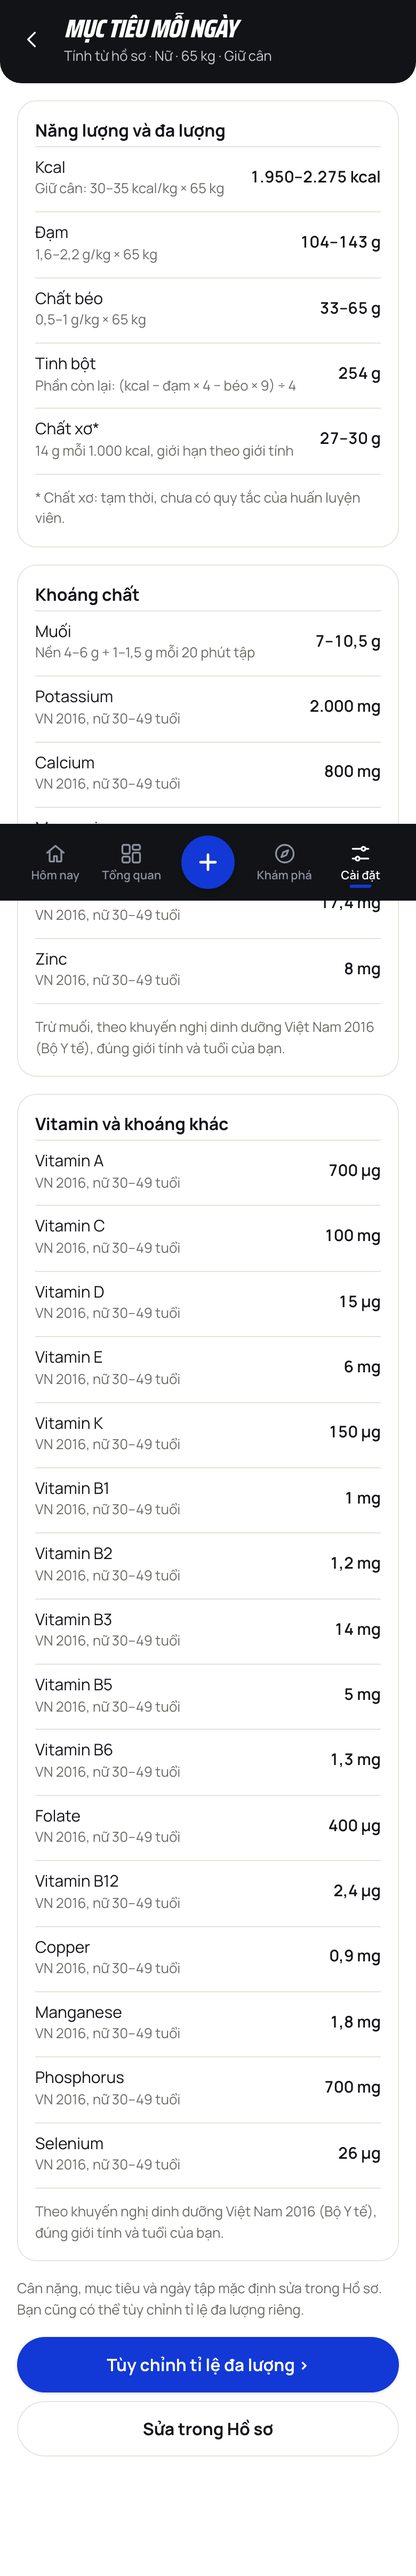
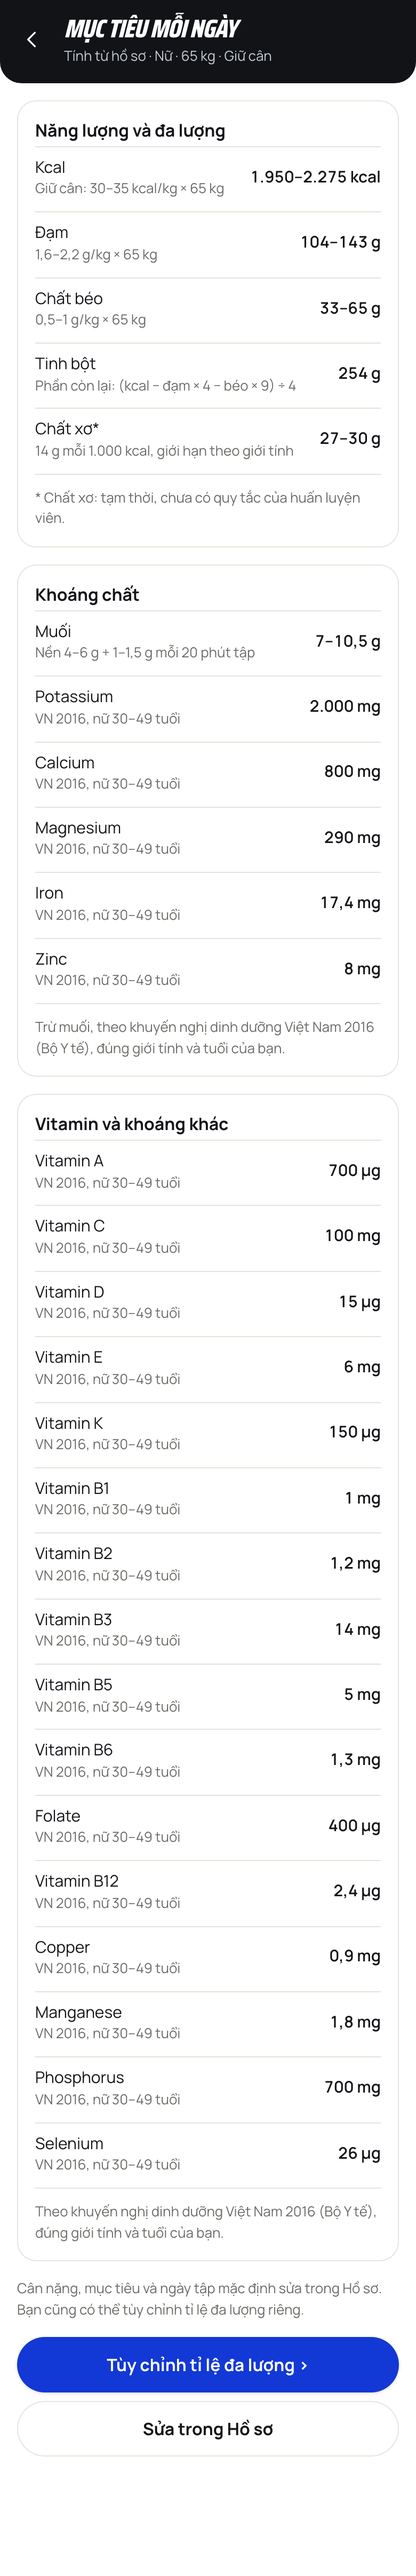
cc-67: period iron keeps the coach rule (28 mg), switch restored, vectors with isPeriod, targets screenshots without the tab bar

Changed region(s): [[0.0, 0.3107, 1.0, 0.3728]]

diff --git a/apps/web/lib/targets.ts b/apps/web/lib/targets.ts
@@ -1,5 +1,8 @@
 import { rdaTargets } from "./rda";
 
+/** Iron for a woman in or near the period: the coach rule (mg a day) */
+const PERIOD_IRON_MG = 28;
+
 /** The age the micro targets use until the profile says one (the 20–29 band) */
 const DEFAULT_AGE = 25;
 
@@ -66,6 +69,8 @@ export interface UserProfileForTargets {
   trainingMinutes?: number;
   /** Age in years, for the recommended amounts of the 22 micros (lib/rda); 25 when not known */
   age?: number;
+  /** Women only: in or near the period. Iron is the coach's 28 mg then (the one micro the period changes) */
+  isPeriod?: boolean;
   macroMode?: MacroTargetMode;
   macroRatios?: MacroRatios;
   macroFixed?: MacroFixedGrams;
@@ -276,6 +281,8 @@ export function calculateTargets(profile: UserProfileForTargets): CompleteTarget
     // cc-67: 21 of the 22 vitamins and minerals are the recommended amounts for this sex and age (lib/rda), whatever the weight or training
     ...rdaTargets(profile.sex, profile.age ?? DEFAULT_AGE),
     sodium: calculateSodiumTarget(trainingMinutes),
+    // TODO(cc-67): iron in the period stays the coach's 28 mg, not VN 2016's amount for the age; Hao decides (OPEN_QUESTIONS, cc-67 period iron)
+    ...(profile.sex === "female" && profile.isPeriod ? { iron: { min: PERIOD_IRON_MG, max: PERIOD_IRON_MG } } : {}),
     calories,
     protein,
     fat,

diff --git a/apps/web/components/settings/__tests__/target-rows.test.ts b/apps/web/components/settings/__tests__/target-rows.test.ts
@@ -76,12 +76,13 @@ describe("targetSections", () => {
     expect(row(deepCut, "Năng lượng và đa lượng", "Kcal")).toMatchObject({ value: "1.300–1.625 kcal" });
   });
 
-  it("gives a woman her own amounts, and the period switch is gone", () => {
+  it("gives a woman her own amounts, and iron 28 mg in the period", () => {
     const woman = { ...SAMPLE, sex: "female" as const };
     expect(row(woman, "Khoáng chất", "Iron")).toMatchObject({ value: "17,4 mg", detail: "VN 2016, nữ 20–29 tuổi" });
     expect(row(woman, "Khoáng chất", "Zinc")).toMatchObject({ value: "8 mg" });
     expect(row(woman, "Khoáng chất", "Potassium")).toMatchObject({ value: "2.000 mg" });
-    expect(row({ ...woman, periodMode: true }, "Khoáng chất", "Iron")).toMatchObject({ value: "17,4 mg" });
+    // In the period iron is the coach's 28 mg (TODO cc-67: Hao decides), the other rows stay VN 2016
+    expect(row({ ...woman, periodMode: true }, "Khoáng chất", "Iron")).toMatchObject({ value: "28 mg", detail: "Gần/đang trong kỳ: quy tắc của huấn luyện viên" });
   });
 
   it("lists the 16 other VN 2016 amounts with their units", () => {

diff --git a/apps/web/components/settings/profile-cards.tsx b/apps/web/components/settings/profile-cards.tsx
@@ -122,6 +122,21 @@ export function BodyCard({ alignGroup }: { alignGroup?: string }) {
           />
         </div>
       </RowGroup>
+      {profile.sex === "female" && (
+        <RowGroup>
+          <div className="flex min-h-[52px] items-center gap-3 border-t border-divider py-1">
+            <div className="flex min-w-0 flex-1 flex-col gap-0.5">
+              <span className="text-[15px]">Gần/đang trong kỳ</span>
+              <span className="text-[13px] leading-tight text-secondary">Chỉ với nữ · Iron lên 28 mg/ngày</span>
+            </div>
+            <Switch
+              checked={profile.periodMode}
+              onCheckedChange={(periodMode) => updateProfile({ periodMode })}
+              aria-label="Gần/đang trong kỳ"
+            />
+          </div>
+        </RowGroup>
+      )}
       <BirthYearField />
       <RowGroup>
         <Row label="Cân nặng" value={`${formatNumber(profile.weightKg)} kg`} href="/settings/profile/weight" />

diff --git a/apps/web/lib/profile.ts b/apps/web/lib/profile.ts
@@ -23,7 +23,7 @@ export interface Profile extends CoachingState {
   birthYear: number;
   weightKg: number;
   goal: GoalType;
-  /** Kept for the account (the server has near_period); since cc-67 the iron target is the VN 2016 amount for sex and age, so nothing reads it. Always false for men (see normaliseProfile). */
+  /** Women only: iron target 28 mg (the coach rule) instead of the VN 2016 amount for sex and age. Always false for men (see normaliseProfile). */
   periodMode: boolean;
   trainingMinutesDefault: number;
   /** Optional name shown on Cài đặt. "" means not set. */
@@ -155,6 +155,7 @@ export function targetsFor(profile: Profile, trainingMinutes = profile.trainingM
     weightKg: profile.weightKg,
     goal: profile.goal,
     trainingMinutes,
+    isPeriod: profile.sex === "female" && profile.periodMode,
     age: ageOf(profile.birthYear),
     macroMode: profile.macroMode,
     macroRatios: profile.macroRatios,

diff --git a/apps/web/lib/__tests__/rda.test.ts b/apps/web/lib/__tests__/rda.test.ts
@@ -139,7 +139,7 @@ describe("the table for review", () => {
         `| Nữ | ${(r.female ?? r.male).map(cell).join(" | ")} |`,
         "",
       ]),
-      `Giữ nguyên: năng lượng, đạm, béo, tinh bột, chất xơ (công thức của huấn luyện viên). Natri giữ nguyên công thức theo phút tập. Bỏ: kali theo cân nặng, canxi 1.200–1.500, magie = 50% canxi, sắt theo kỳ kinh.`,
+      `Giữ nguyên: năng lượng, đạm, béo, tinh bột, chất xơ (công thức của huấn luyện viên). Natri giữ nguyên công thức theo phút tập, sắt khi nữ đang trong kỳ giữ 28 mg của huấn luyện viên. Bỏ: kali theo cân nặng, canxi 1.200–1.500, magie = 50% canxi.`,
     ];
     const file = path.resolve(__dirname, "../../../../docs/rda-vn2016-targets-2026-10-19.md");
     mkdirSync(path.dirname(file), { recursive: true });

diff --git a/apps/web/lib/__tests__/vectors-gen.test.ts b/apps/web/lib/__tests__/vectors-gen.test.ts
@@ -27,7 +27,8 @@ describe("Export shared test vectors for Go API", () => {
           for (const trainingMinutes of [0, 60]) {
             // cc-67: the 22 micros follow sex and age (lib/rda): the ages go round the VN 2016 bands
             const age = AGES[targetCases.length % AGES.length];
-            const profile: UserProfileForTargets = { sex, goal, weightKg, trainingMinutes, age };
+            const isPeriod = sex === "female";
+            const profile: UserProfileForTargets = { sex, goal, weightKg, trainingMinutes, isPeriod, age };
             const output = calculateTargets(profile);
             targetCases.push({ input: profile, output });
           }
@@ -56,6 +57,7 @@ describe("Export shared test vectors for Go API", () => {
       weightKg: 70,
       goal: "maintain",
       trainingMinutes: 60,
+      isPeriod: false,
       age: 25,
     });
 

diff --git a/apps/web/components/settings/target-rows.ts b/apps/web/components/settings/target-rows.ts
@@ -89,7 +89,8 @@ export function targetSections(profile: Profile): TargetSection[] {
         },
         ...["potassium", "calcium", "magnesium", "iron", "zinc"].map((key) => ({
           label: nutrientName(key),
-          detail: who,
+          // Iron in the period is the coach's 28 mg, not a recommended amount (TODO cc-67: Hao decides)
+          detail: key === "iron" && profile.sex === "female" && profile.periodMode ? "Gần/đang trong kỳ: quy tắc của huấn luyện viên" : who,
           value: `${formatAmount(t[key]?.min ?? 0, "mg")} mg`,
         })),
       ],

diff --git a/apps/web/lib/__tests__/profile.test.ts b/apps/web/lib/__tests__/profile.test.ts
@@ -49,8 +49,8 @@ describe("sample profile", () => {
     expect(t.potassium).toEqual({ min: 2500, max: 2500 });
   });
 
-  it("gives a woman iron 17,4 mg whatever the period setting says", () => {
-    expect(targetsFor({ ...WOMAN, periodMode: true }).iron).toEqual({ min: 17.4, max: 17.4 });
+  it("gives a woman iron 28 mg in the period (the coach rule), 17,4 mg otherwise", () => {
+    expect(targetsFor({ ...WOMAN, periodMode: true }).iron).toEqual({ min: 28, max: 28 });
     expect(targetsFor({ ...WOMAN, periodMode: false }).iron).toEqual({ min: 17.4, max: 17.4 });
   });
 

diff --git a/apps/web/components/onboarding/setup-form.tsx b/apps/web/components/onboarding/setup-form.tsx
@@ -288,6 +288,12 @@ export function SetupForm({ step }: { step: SetupStep }) {
               />
             </FormRow>
             )}
+
+            {draft.sex === "female" && (
+              <Card className="text-[13px] leading-normal text-secondary">
+                Với nữ, bạn có thể bật “Gần/đang trong kỳ” trên trang Hồ sơ để tăng mục tiêu Iron lên 28 mg/ngày.
+              </Card>
+            )}
           </section>
 
           {/* Goal: options and daily targets from lib/targets.ts */}

diff --git a/apps/web/tests/probes/cc08.py b/apps/web/tests/probes/cc08.py
@@ -1,5 +1,5 @@
 """cc-08: profile and targets from the profile. Weight 65 -> 70 moves Today's kcal target and not the micros (cc-67: they are
-the VN 2016 amounts for sex and age), a woman's iron is 17,4 mg and there is no period switch, reload keeps it, an invalid
+the VN 2016 amounts for sex and age), a woman's iron is 17,4 mg, or the coach's 28 mg with the period switch on, reload keeps it, an invalid
 weight shows the setup error.
 Run with: ALIGN_BASE_URL=http://localhost:3101 npm run probe -- tests/probes/cc08.py
 """
@@ -58,7 +58,7 @@ def run_phone(browser):
     visible(pg, 'a[href="/settings/profile/weight"]').wait_for(state="visible")
     active_sex = pg.locator('[aria-labelledby="profile-sex-label"] button[aria-pressed="true"] >> visible=true').first
     check(active_sex.inner_text().strip() == "Nam", "390 profile: sex chip shows Nam")
-    check(pg.get_by_role("switch", name="Gần/đang trong kỳ").count() == 0, "390 profile: no period switch")
+    check(pg.get_by_role("switch", name="Gần/đang trong kỳ").count() == 0, "390 profile: period switch hidden for Nam")
 
     # 2. weight page: opens from the row, shows the saved weight with one decimal
     visible(pg, 'a[href="/settings/profile/weight"]').click()
@@ -97,17 +97,27 @@ def run_phone(browser):
     visible(pg, 'a[href="/settings/profile/weight"]').wait_for(state="visible")
     pg.locator('[aria-labelledby="profile-sex-label"] button:has-text("Nữ") >> visible=true').first.click()
     pg.wait_for_timeout(200)
-    check(pg.get_by_role("switch", name="Gần/đang trong kỳ").count() == 0, "390 profile: no period switch for Nữ either")
+    switch = pg.get_by_role("switch", name="Gần/đang trong kỳ")
+    check(switch.count() == 1, "390 profile: period switch shows after choosing Nữ")
+    pg.goto(BASE + "/micros", wait_until="networkidle")
+    pg.wait_for_timeout(600)
+    check("/ 17,4 mg" in body(pg), "390 micros: iron target reads 17,4 mg for a woman of 23 (period off)")
+    pg.goto(BASE + "/settings/profile", wait_until="networkidle")
+    visible(pg, 'a[href="/settings/profile/weight"]').wait_for(state="visible")
+    switch = pg.get_by_role("switch", name="Gần/đang trong kỳ")
+    switch.click()
+    pg.wait_for_timeout(200)
+    check(switch.get_attribute("aria-checked") == "true", "390 profile: period switch is on")
     pg.screenshot(path=os.path.join(SHOTS, "cc08-profile-female-390.png"), animations="disabled")
 
     pg.goto(BASE + "/micros", wait_until="networkidle")
     pg.wait_for_timeout(600)
-    check("/ 17,4 mg" in body(pg), "390 micros: iron target reads 17,4 mg for a woman of 23")
+    check("/ 28 mg" in body(pg), "390 micros: iron target reads 28 mg in the period (the coach rule)")
 
     # 6. reload keeps everything
     pg.reload(wait_until="networkidle")
     pg.wait_for_timeout(600)
-    check("/ 17,4 mg" in body(pg), "390 micros: iron 17,4 mg kept after reload")
+    check("/ 28 mg" in body(pg), "390 micros: iron 28 mg kept after reload")
     check("/ 2.000 mg" in body(pg), "390 micros: a woman's potassium 2.000 mg kept after reload")
     pg.goto(BASE + "/settings/profile", wait_until="networkidle")
     visible(pg, 'a[href="/settings/profile/weight"]').wait_for(state="visible")
@@ -115,6 +125,7 @@ def run_phone(browser):
     check("70 kg" in body(pg), "390 profile: 70 kg kept after reload")
     female = pg.locator('[aria-labelledby="profile-sex-label"] button:has-text("Nữ") >> visible=true').first
     check(female.get_attribute("aria-pressed") == "true", "390 profile: Nữ kept after reload")
+    check(pg.get_by_role("switch", name="Gần/đang trong kỳ").get_attribute("aria-checked") == "true", "390 profile: period switch kept after reload")
     ctx.close()
 
 

diff --git a/apps/web/tests/probes/cc_67_part4.py b/apps/web/tests/probes/cc_67_part4.py
@@ -71,6 +71,8 @@ def main():
             check(f"VN 2016, {label}" in text, f"Mục tiêu {sex} 30: says {label}")
             for want in wants:
                 check(want in text, f"Mục tiêu {sex} 30 shows {want}")
+            # The tab bar is fixed: left out, it would cut across the full-page shot
+            pg.add_style_tag(content="nav { display: none !important; }")
             pg.screenshot(path=str(SHOTS / f"targets-{sex}-30.png"), full_page=True)
             ctx.close()
         browser.close()

diff --git a/PROGRESS.md b/PROGRESS.md
@@ -818,8 +818,9 @@ All alignment and hydration tests passed cleanly (<= 1px difference, 0 hydration
 - 19/10/2026 cc-67 part 1 (feat/ui-cc-67): one list row per food. lib/food-twins.ts groups a raw row with its plain cooked row (the cc-53c pairs by source + source_id, then names that only differ by sống / nấu chín / chín / luộc / hấp, same category and same bracket, so Bơ and Bơ lạt, Khoai lang (tím) and a boiled one never merge; eggs, fruit, supplements, dishes and own foods never group). A list shows the name without the state ("Khoai lang", "Cơm trắng", "Thịt bò nạc") and opens on Chín for cơm, bún, phở, mì, miến, khoai, ngô, yến mạch and Sống for meat, fish, seafood, vegetables and dry beans; Sống | Chín (lib/yield) reaches the other row, now for vegetables with a plain cooked row too (yield.test updated). lib/search.ts searchRows ranks by the plain name, any row's name finds the food, chiên / xào / nướng / kho rows come after the plain row; buildFoodList, /add, Khám phá search, category pages, Giàu … lists, Gần đây / Hay ăn / Yêu thích dedupe by food. A food opens in the state it was last logged in. Diary rows and old entries are unchanged (they name the row logged). Demo catalogue gains Khoai lang (sống) (USDA FDC 168482). Tests lib/__tests__/food-twins.test.ts (research pairs as catalogue rows). Edges: add-list, explore-header pass. Left: parts 2 to 5.
 - 19/10/2026 cc-67 part 2 (feat/ui-cc-67): fruit and the foods sold with a peel, shell or bone go by grams of the edible part. The portion sheet of a fruit shows the gram field, one 100 g chip and ×N, with the note "Cân phần ăn được, bỏ vỏ, hạt và xương."; weighedFruit (lib/mock/foods.ts, also api-client and the catalogue cache) takes the count servings off every fruit row; the demo catalogue follows (Chuối 118 g in the sample day, Quả bơ is Bơ (trái)). Names never carry bỏ vỏ, cả vỏ or thịt quả in a list (tidyName). Eggs keep their quả. The scan (npm run scan:edible, scripts/edible-part.ts) lists 181 foods in the research data (82 fruit, 43 fish, 56 with shell, peel or bone) in docs/data/edible-part-scan-2026-10-19.md and the importer file docs/data/edible-part-portions-2026-10-19.json for Dong (portions to remove, renames). Tests lib/__tests__/edible-part-scan.test.ts; probe cc_67_part2.py.
 - 19/10/2026 cc-67 part 3 (feat/ui-cc-67): the parts of a premade dish can be changed for one meal. In Thành phần each part has a gram field with − and + 10 g (0 = Không dùng), the add-on chips put a part in the list ("thêm", no more separate diary entries), Khôi phục goes back to the recipe, the kcal card and the Tổng row follow live. Saving logs ONE row, "Phở bò · đã chỉnh", with the parts added up: lib/dish-recipes saveEditedDish makes a one-off recipe (Recipe.oneOff) and reuses the recipe path (server food by POST /foods/custom, the entry waits on this device as a local-only entry until the server food exists, repointed by withServerFoods); browsableFoods lists it nowhere, here or on another device (the name ends in " · đã chỉnh"). The same change twice is one food; an unchanged dish logs the normal dish. PortionPanel prop onExtrasChange became onDishEdit (+ notice). Size: lib/food-rows.ts is a facade, the one-row-per-food index (lib/food-twins) is a chunk that loads after the first paint (Hôm nay preloads it when idle), a list waits for it: first-load JS +0.8 to +1.5 kB a route. Tests dish-edit, dish-recipes, food-rows; probe cc_67_part3.py (cc_54_dish_parts.py updated).
-- 19/10/2026 cc-67 part 4 (feat/ui-cc-67): the 22 vitamin and mineral targets are the VN 2016 recommended amounts (Viện Dinh dưỡng, QĐ 2615/QĐ-BYT) by sex and age, one table in lib/rda.ts with the table of VN 2016 per row (8 bands: 10–11, 12–14, 15–17, 18–19, 20–29, 30–49, 50–69, 70+; age = this year less the year of birth, 25 when unknown). Iron at 15% absorption, zinc at moderate absorption, potassium its AI (2.500 / 2.000). Sodium is NOT in the table: Hao 19/10, it keeps the coach formula by training minutes (calculateSodiumTarget, TODO in lib/targets.ts, OPEN_QUESTIONS cc-67 sodium), so 21 of the 22 are the recommended amounts. Gone: potassium per kg, calcium 1.200–1.500, magnesium 50% of calcium, iron by period (the Gần/đang trong kỳ switch and its copy are removed; profile.periodMode stays in the data). Energy, macros, fiber and fast carbs unchanged; the Ngày tập checklist and doses unchanged. calculateTargets takes `age`; targetsFor, Settings > Mục tiêu (each row says whose amount it is), the micros marked as VN 2016 (no "*" reference mark). Review table: docs/rda-vn2016-targets-2026-10-19.md (npm run scan:rda). packages/vectors regenerated (targets, period): apps/api must adopt lib/rda (For Dong). Size: the raw / cooked data (lib/yield + pairs) moved behind lib/food-rows with the one-row-per-food index, so first-load JS is within +0.4 kB of main on every route. Tests rda, targets, profile, target-rows, vectors; probe cc_67_part4.py (cc08.py updated).
+- 19/10/2026 cc-67 part 4 (feat/ui-cc-67): the 22 vitamin and mineral targets are the VN 2016 recommended amounts (Viện Dinh dưỡng, QĐ 2615/QĐ-BYT) by sex and age, one table in lib/rda.ts with the table of VN 2016 per row (8 bands: 10–11, 12–14, 15–17, 18–19, 20–29, 30–49, 50–69, 70+; age = this year less the year of birth, 25 when unknown). Iron at 15% absorption, zinc at moderate absorption, potassium its AI (2.500 / 2.000). Sodium is NOT in the table: Hao 19/10, it keeps the coach formula by training minutes (calculateSodiumTarget, TODO in lib/targets.ts, OPEN_QUESTIONS cc-67 sodium), so 21 of the 22 are the recommended amounts. Gone: potassium per kg, calcium 1.200–1.500, magnesium 50% of calcium. Period iron stays the coach rule: a woman with Gần/đang trong kỳ on has iron 28 mg (the switch and its copy stay; TODO in lib/targets.ts, OPEN_QUESTIONS cc-67 period iron). So sodium and period iron keep the coach rules. Energy, macros, fiber and fast carbs unchanged; the Ngày tập checklist and doses unchanged. calculateTargets takes `age`; targetsFor, Settings > Mục tiêu (each row says whose amount it is), the micros marked as VN 2016 (no "*" reference mark). Review table: docs/rda-vn2016-targets-2026-10-19.md (npm run scan:rda). packages/vectors regenerated (targets, period): apps/api must adopt lib/rda (For Dong). Size: the raw / cooked data (lib/yield + pairs) moved behind lib/food-rows with the one-row-per-food index, so first-load JS is within +0.4 kB of main on every route. Tests rda, targets, profile, target-rows, vectors; probe cc_67_part4.py (cc08.py updated).
 - 19/10/2026 cc-67 part 5 (feat/ui-cc-67): fewer taps to log. Taps from Hôm nay to a logged food, main → now (probe cc_67_taps.py, 390 x 844): recent food card 2 → 2, recent food through the portion sheet 3 → 3, searched food 3 → 3, a dish with one part changed 5 (the + Thịt bò chip, nothing else changeable) → 5 (Thành phần, the gram field, Thêm; 4 the next time as Thành phần stays open on this device). /add already opens on Gần đây and Yêu thích with the search field focused; closing the portion sheet puts the focus back in the search field. Nothing removed that changed the result. The repeat of an edited dish saved after a reload had no numbers: saveEditedDish now syncs the saved recipe's food again (dish-edit test).
 - 19/10/2026 night run merged into main (11:47–11:48, 390f7f4): #8 cc-57, #9 cc-58, #10 cc-54, #13 cc-61, #11 training minutes, #12 audit, in that order with merge commits; sw.js 2026-10-19.8 (#11 resolved the only sw.js conflict, #12 and PROGRESS kept both sides). Fresh worktree of 390f7f4: npm ci, typecheck, npm test (1558), build, build:demo, test:align, test:hydration and smoke (144/144) pass; first-load JS /signin 211.0, /app 296.4, /add 318.0 kB gzip. Not deployed: the live auth check (OPEN_QUESTIONS cc-61) and the migrations check (OPEN_QUESTIONS, Dong) come first.
 - 19/10/2026 cc-63 (feat/ui-cc-63, port 3108, merged into main c0481b6 on 19/10, sw.js 2026-10-19.9, not deployed): gram limit 5.000 g for base x N (fitPortion), Chưa có kcal, Hai hàng Khay bar, every input 16 px (test), toast pause only for a mouse and while hidden, overscroll none, finite guards, number parser (1.000 is 1000), 999+%, display name by code points, coach initials by grapheme, leaderboard rows under 3 ranks, sign-out clears the API cookie, claims-verified cookie, anchored matcher, CSP form-action and no localhost in production, no raw server bodies, /auth and /join never cached, stable tray card key. Edges: home-nutrient, home-hero, tray-review pass. X1 (account guard) and X8 (wipe on sign-out) are cc-68.
 - 19/10/2026 cc-67 final (feat/ui-cc-67, not merged, no PR: goes into feat/ui-cc-68 through the cc-68 session): main 8656768 merged in, sw.js 2026-10-19.10, release 2026-10-19a. Edited dishes hidden by the recipe's local and server id, plus the name " · đã chỉnh" for server foods this device did not make as the user's own; sodium keeps the coach formula (OPEN_QUESTIONS cc-67 sodium); the portion area waits for the raw / cooked rows (an entry's Đã nấu chín label was lost on edit). Gates on the final build: typecheck ok, vitest 1701 (133 files), build:demo ok, test:align and test:hydration pass, smoke 144/144, probe:all 101 PASS, 2 REPORT, 2 FAIL (cc_26, cc_44: the same on origin/main), 1 SKIP; first-load JS −1.4 to +0.6 kB a route against main. PR text, the RDA table for all 8 bands and the screenshots: docs/pr/cc-67.md, docs/screenshots/cc-67/. BLOCKED: merge only with Dong's Go port of lib/rda.ts.
+- 19/10/2026 cc-67 period iron: a woman with Gần/đang trong kỳ on has the coach's 28 mg iron again (switch and its copy restored; TODO in lib/targets.ts, OPEN_QUESTIONS cc-67 period iron); isPeriod is back in packages/vectors inputs next to age. Gates: typecheck ok, vitest 1701 (133 files), build:demo ok, test:align and test:hydration pass, smoke 144/144, probe:all 101 PASS, 2 REPORT, 2 FAIL (cc_26, cc_44, same on origin/main), 1 SKIP.
